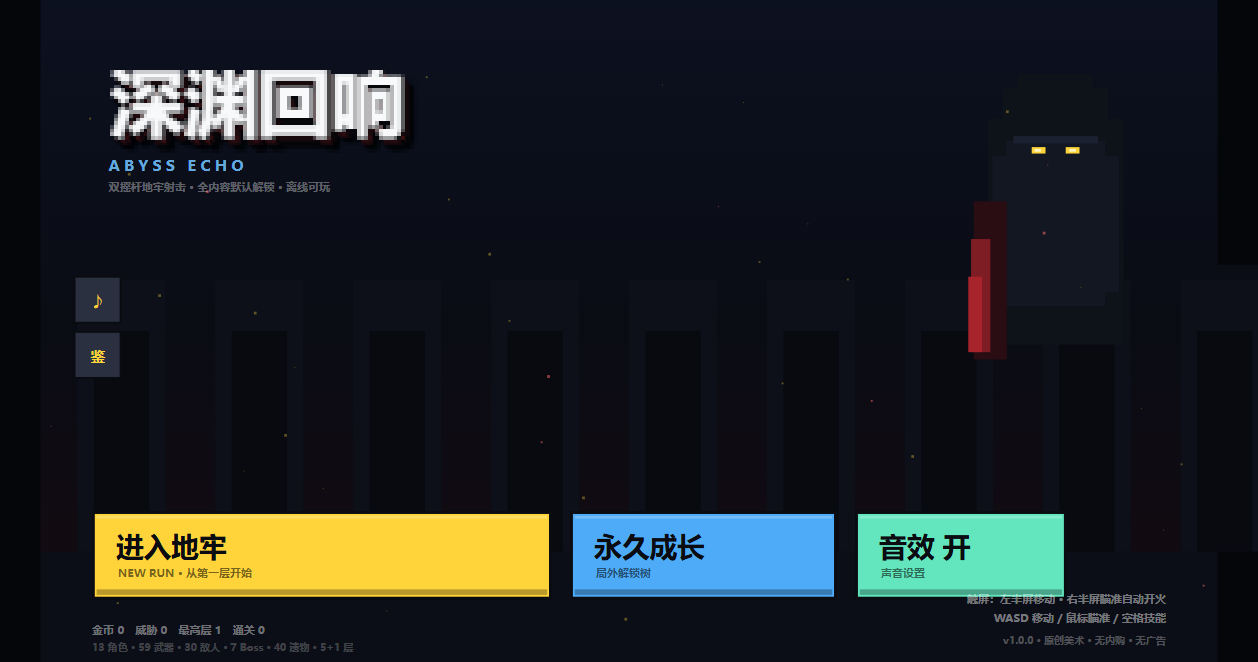
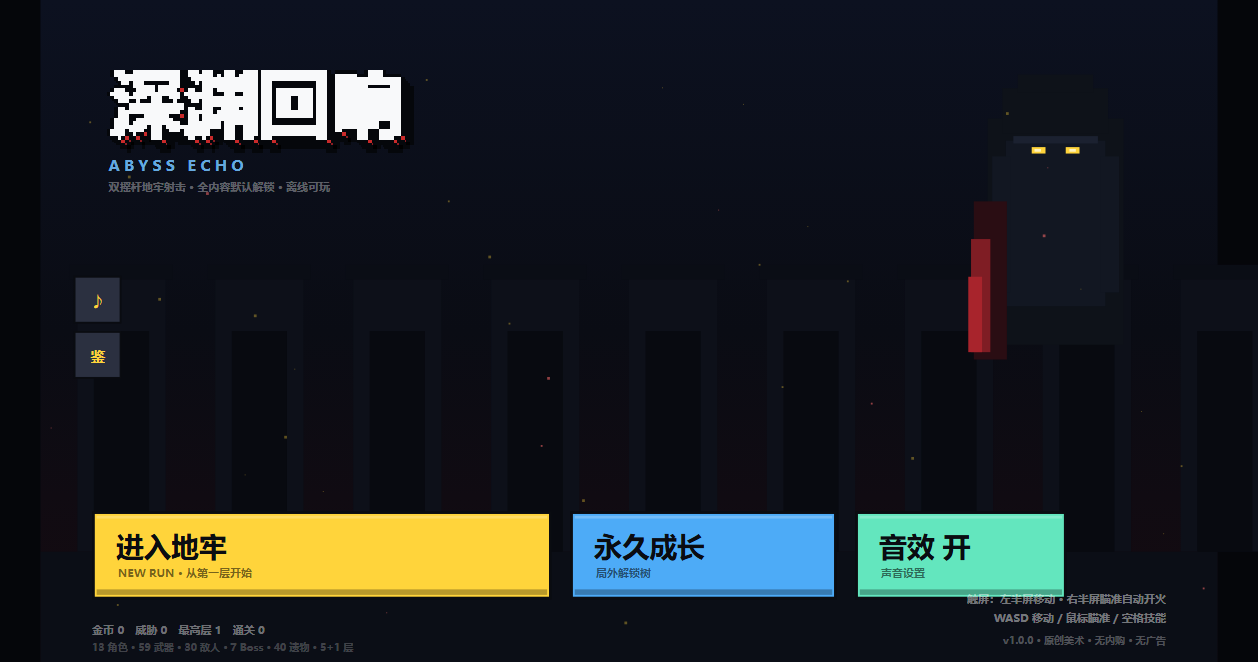
feat: 1-bit CJK rasterization, richer sprites, per-family weapons

Changed region(s): [[0.062, 0.0906, 0.341, 0.2115]]

diff --git a/index.html b/index.html
@@ -67,27 +67,55 @@
   const pad2 = (n) => String(n).padStart(2, '0');
   const fmtTime = (s) => `${pad2(Math.floor(s / 60))}:${pad2(Math.floor(s % 60))}`;
 
-  // 中文像素化：先以 1/k 尺寸绘制再最近邻放大，得到点阵质感（带黑色描边）
+  // 中文像素化：先栅格化成 1-bit 点阵（阈值二值化 + 四邻域描边）再最近邻放大
   const pixCache = new Map();
   function pixText(str, x, y, size, color, align, k) {
-    const step = k || 3;
-    const s = Math.max(5, Math.round(size / step));
+    if (size < 13) {
+      // 小字号保留矢量 + 投影，避免点阵化后糊成一团
+      ctx.font = `800 ${size}px ${FONT}`;
+      ctx.textAlign = align || 'left';
+      ctx.fillStyle = '#05070b';
+      ctx.fillText(str, x + 1, y + 1);
+      ctx.fillStyle = color;
+      ctx.fillText(str, x, y);
+      const w = ctx.measureText(str).width;
+      ctx.textAlign = 'left';
+      return w;
+    }
+    const step = Math.min(k || 3, Math.max(2, Math.round(size / 11)));
+    const s = Math.max(6, Math.round(size / step));
     const key = str + '|' + s + '|' + color + '|' + step;
     let cv = pixCache.get(key);
     if (!cv) {
       const m = document.createElement('canvas');
       const mm = m.getContext('2d');
       mm.font = `900 ${s}px ${FONT}`;
-      const w = Math.ceil(mm.measureText(str).width) + 3;
-      m.width = Math.max(4, w);
+      m.width = Math.max(4, Math.ceil(mm.measureText(str).width) + 3);
       m.height = s + 5;
       const g = m.getContext('2d');
       g.font = `900 ${s}px ${FONT}`;
       g.textBaseline = 'top';
-      g.fillStyle = '#05070b';
-      g.fillText(str, 2, 2); g.fillText(str, 1, 2); g.fillText(str, 2, 1);
-      g.fillStyle = color;
+      g.fillStyle = '#ffffff';
       g.fillText(str, 1, 1);
+      const W = m.width, H = m.height;
+      const d = g.getImageData(0, 0, W, H).data;
+      const mask = new Uint8Array(W * H);
+      for (let i = 0; i < W * H; i++) mask[i] = d[i * 4 + 3] > 110 ? 1 : 0;
+      g.clearRect(0, 0, W, H);
+      // 描边（外侧一圈邻接像素）
+      g.fillStyle = '#05070b';
+      for (let yy = 0; yy < H; yy++) {
+        for (let xx = 0; xx < W; xx++) {
+          if (mask[yy * W + xx]) continue;
+          const nb = (xx > 0 && mask[yy * W + xx - 1]) || (xx < W - 1 && mask[yy * W + xx + 1]) ||
+            (yy > 0 && mask[(yy - 1) * W + xx]) || (yy < H - 1 && mask[(yy + 1) * W + xx]);
+          if (nb) g.fillRect(xx, yy, 1, 1);
+        }
+      }
+      g.fillStyle = color;
+      for (let yy = 0; yy < H; yy++) {
+        for (let xx = 0; xx < W; xx++) if (mask[yy * W + xx]) g.fillRect(xx, yy, 1, 1);
+      }
       cv = m;
       pixCache.set(key, cv);
     }
@@ -4591,7 +4619,7 @@
   function drawPxPlayer(c, run, K, ox, oy) {
     const p = run.player, ch = run.char;
     const X = Math.round(p.x * K + ox), Y = Math.round(p.y * K + oy);
-    const R = Math.max(6, Math.round(PLAYER_R * K * 1.55));
+    const R = Math.max(7, Math.round(PLAYER_R * K * 1.75));
     const body = ch.color, hair = ch.accent;
     const dark = '#0b0f14';
     c.fillStyle = 'rgba(0,0,0,.42)';
@@ -4643,7 +4671,11 @@
       c.fillStyle = hexShade(hair, -0.2);
       c.fillRect(X - hr, headTop, hr * 2, 2);
     } else {
-      c.fillRect(X - hr, headTop, hr * 2, Math.max(2, Math.round(hd * 0.4)));
+      c.fillRect(X - hr, headTop, hr * 2, Math.max(3, Math.round(hd * 0.55)));
+      c.fillRect(X - hr, headTop, 2, hd);
+      c.fillRect(X + hr - 2, headTop, 2, hd);
+      c.fillStyle = hexShade(hair, -0.35);
+      c.fillRect(X - hr, headTop + Math.max(3, Math.round(hd * 0.55)) - 1, hr * 2, 1);
       if (dir === 1) c.fillRect(X - hr, headTop, 2, hd);
       if (dir === 3) c.fillRect(X + hr - 2, headTop, 2, hd);
     }
@@ -4670,16 +4702,50 @@
       c.fillRect(X - R + 2, Y + R, 4, 2);
       c.fillRect(X + R - 6, Y + R + 1, 4, 1);
     }
-    // 武器（沿瞄准方向）
+    // 腰带 / 肩甲 / 手套
+    c.fillStyle = '#0b0f14';
+    c.fillRect(X - R + 1, Y + R - 5, R * 2 - 2, 2);
+    c.fillStyle = hair;
+    c.fillRect(X - 2, Y + R - 5, 4, 2);
+    c.fillStyle = hexShade(hair, -0.25);
+    c.fillRect(X - R - 1, bodyTop + 2, 3, 4);
+    c.fillRect(X + R - 2, bodyTop + 2, 3, 4);
+    // 武器（按弹道族绘制不同剪影）
     const w = curWeapon();
     if (w) {
-      const len = w.fam === 'melee' ? R + 6 : R + 4;
-      for (let i = 2; i < len; i++) {
-        const wx = X + Math.round(fx * i), wy = Y + Math.round(fy * i) + 1;
-        c.fillStyle = dark;
-        c.fillRect(wx - 1, wy - 1, 3, 3);
-        c.fillStyle = i === len - 1 ? '#f8f9fa' : w.color;
-        c.fillRect(wx, wy, 1, 1);
+      const fam = w.fam;
+      const len = (fam === 'melee' || fam === 'shotgun' || fam === 'launcher') ? R + 5 : R + 8;
+      const put = (t, s, col, sz) => {
+        const qx = X + fx * t - fy * (s + 3), qy = Y + fy * t + fx * (s + 3);
+        c.fillStyle = col;
+        c.fillRect(Math.round(qx) - ((sz / 2) | 0), Math.round(qy) - ((sz / 2) | 0), sz, sz);
+      };
+      for (let t = 2; t <= len; t++) put(t, 0, dark, 3);
+      if (fam === 'melee') {
+        for (let t = 3; t <= len; t++) put(t, 0, t > len - 2 ? '#f8f9fa' : w.color, 2);
+        put(2, -2, '#8a6b3d', 2);
+        put(2, 2, '#8a6b3d', 2);
+      } else if (fam === 'shotgun') {
+        for (let t = 3; t <= len; t++) put(t, 0, w.color, 2);
+        put(len, -2, w.color, 2);
+        put(len, 2, w.color, 2);
+        put(3, -2, '#4a3a28', 2);
+      } else if (fam === 'launcher') {
+        for (let t = 3; t <= len; t++) put(t, 0, w.color, 4);
+        put(len + 1, 0, '#0b0f14', 3);
+      } else if (fam === 'summon' || fam === 'flame' || fam === 'charge') {
+        for (let t = 3; t <= len - 1; t++) put(t, 0, '#8a6b3d', 2);
+        put(len, 0, w.color, 3);
+        put(len, 0, '#f8f9fa', 1);
+      } else if (fam === 'laser' || fam === 'rail' || fam === 'chain') {
+        for (let t = 3; t <= len; t++) put(t, 0, w.color, 2);
+        for (let t = 5; t <= len; t++) put(t, 0, '#f8f9fa', 1);
+        put(2, 0, '#2b3040', 3);
+      } else {
+        for (let t = 3; t <= len; t++) put(t, 0, w.color, 2);
+        put(len, 0, '#f8f9fa', 1);
+        put(2, -2, '#4a3a28', 2);
+        put(4, 2, '#2b3040', 2);
       }
     }
     c.globalAlpha = 1;
